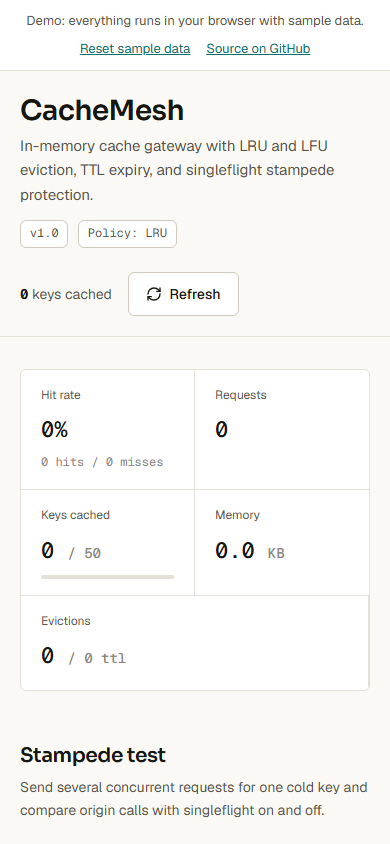
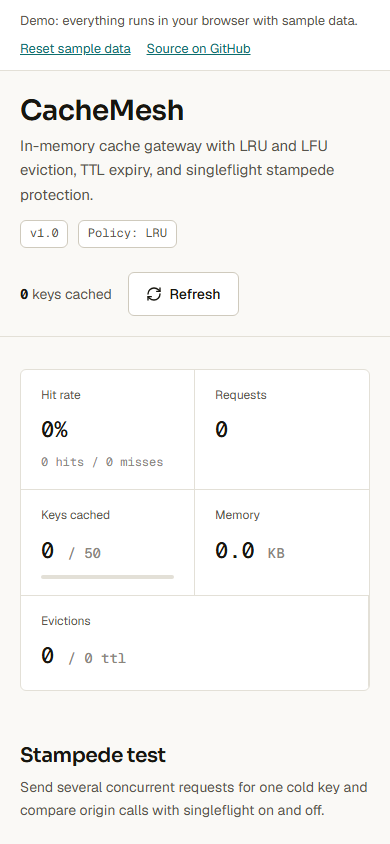
Line up the demo bar, header, main content and footer on one left edge

Changed region(s): [[0.0615, 0.0, 0.9231, 0.0616]]

diff --git a/client/src/App.css b/client/src/App.css
@@ -4,6 +4,13 @@
   padding: 0;
 }
 
+:root {
+  /* The one horizontal inset shared by every full-width row (demo bar,
+     header, main content, footer) so their content always lines up on
+     the same left and right edges. */
+  --page-pad: 2rem;
+}
+
 html {
   -webkit-text-size-adjust: 100%;
 }
@@ -50,17 +57,21 @@ textarea {
 
 /* Demo bar */
 .demo-bar {
-  display: flex;
-  align-items: center;
-  justify-content: center;
-  flex-wrap: wrap;
-  gap: 0.4rem 1rem;
-  padding: 0.65rem 1.5rem;
   background-color: var(--surface);
   border-bottom: 1px solid var(--rule);
+}
+
+.demo-bar-inner {
+  max-width: 1200px;
+  margin: 0 auto;
+  padding-block: 0.65rem;
+  padding-inline: var(--page-pad);
+  display: flex;
+  align-items: center;
+  flex-wrap: wrap;
+  gap: 0.4rem 1rem;
   color: var(--ink-2);
   font-size: 13px;
-  text-align: center;
 }
 
 .demo-bar-links {
@@ -81,13 +92,14 @@ textarea {
 
 /* Header */
 .app-header {
-  padding: 2rem 2rem 1.5rem;
   border-bottom: 1px solid var(--rule);
 }
 
 .header-inner {
   max-width: 1200px;
   margin: 0 auto;
+  padding-block: 2rem 1.5rem;
+  padding-inline: var(--page-pad);
   display: flex;
   align-items: flex-start;
   justify-content: space-between;
@@ -165,10 +177,11 @@ textarea {
 /* Main layout */
 .app-main {
   flex: 1;
-  padding: 3rem 2rem 4rem;
   max-width: 1200px;
   margin: 0 auto;
   width: 100%;
+  padding-block: 3rem 4rem;
+  padding-inline: var(--page-pad);
   display: flex;
   flex-direction: column;
   gap: 3rem;
@@ -928,22 +941,15 @@ table.entries-table {
   color: var(--ink);
 }
 
-.global-alert {
-  max-width: 1200px;
-  margin: 0 auto;
-  width: calc(100% - 4rem);
-}
-
-@media (max-width: 640px) {
-  .global-alert {
-    width: 100%;
-  }
-}
-
 /* Footer */
 .app-footer {
   margin-top: auto;
-  padding: 1.5rem 2rem;
+  max-width: 1200px;
+  width: 100%;
+  margin-left: auto;
+  margin-right: auto;
+  padding-block: 1.5rem;
+  padding-inline: var(--page-pad);
   border-top: 1px solid var(--rule);
   display: flex;
   justify-content: space-between;
@@ -952,10 +958,6 @@ table.entries-table {
   gap: 1rem;
   font-size: 13px;
   color: var(--ink-2);
-  max-width: 1200px;
-  width: 100%;
-  margin-left: auto;
-  margin-right: auto;
 }
 
 .footer-links {
@@ -965,16 +967,20 @@ table.entries-table {
 }
 
 @media (max-width: 640px) {
-  .app-header {
-    padding: 1.5rem 1.25rem 1.25rem;
+  :root {
+    --page-pad: 1.25rem;
+  }
+
+  .header-inner {
+    padding-block: 1.5rem 1.25rem;
   }
 
   .app-main {
-    padding: 2rem 1.25rem 3rem;
+    padding-block: 2rem 3rem;
   }
 
   .app-footer {
-    padding: 1.25rem;
+    padding-block: 1.25rem;
   }
 
   .brand-name {

diff --git a/client/src/components/DemoBanner.tsx b/client/src/components/DemoBanner.tsx
@@ -17,15 +17,17 @@ export const DemoBanner: React.FC<DemoBannerProps> = ({ onReset }) => {
 
   return (
     <div className="demo-bar" role="status">
-      <span>Demo: everything runs in your browser with sample data.</span>
-      <span className="demo-bar-links">
-        <button type="button" className="link-btn" onClick={handleReset}>
-          Reset sample data
-        </button>
-        <a href="https://github.com/Taan1el/cachemesh" target="_blank" rel="noreferrer">
-          Source on GitHub
-        </a>
-      </span>
+      <div className="demo-bar-inner">
+        <span>Demo: everything runs in your browser with sample data.</span>
+        <span className="demo-bar-links">
+          <button type="button" className="link-btn" onClick={handleReset}>
+            Reset sample data
+          </button>
+          <a href="https://github.com/Taan1el/cachemesh" target="_blank" rel="noreferrer">
+            Source on GitHub
+          </a>
+        </span>
+      </div>
     </div>
   );
 };

diff --git a/client/src/App.tsx b/client/src/App.tsx
@@ -62,7 +62,7 @@ export const App: React.FC = () => {
 
       <main className="app-main">
         {error && (
-          <div className="alert alert-error global-alert">
+          <div className="alert alert-error">
             <span className="alert-message">
               <TriangleAlert size={16} aria-hidden="true" /> {error}
             </span>
